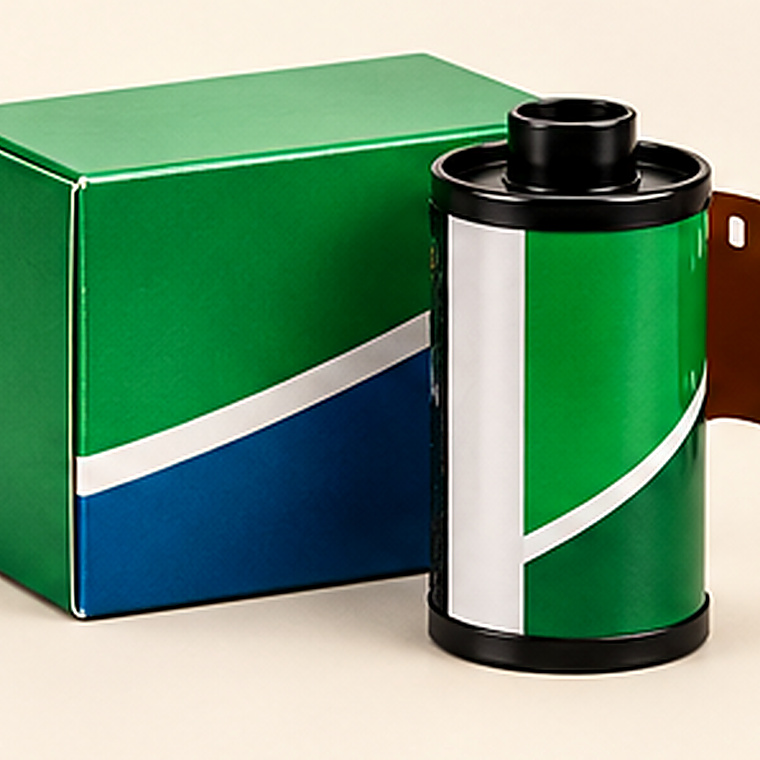
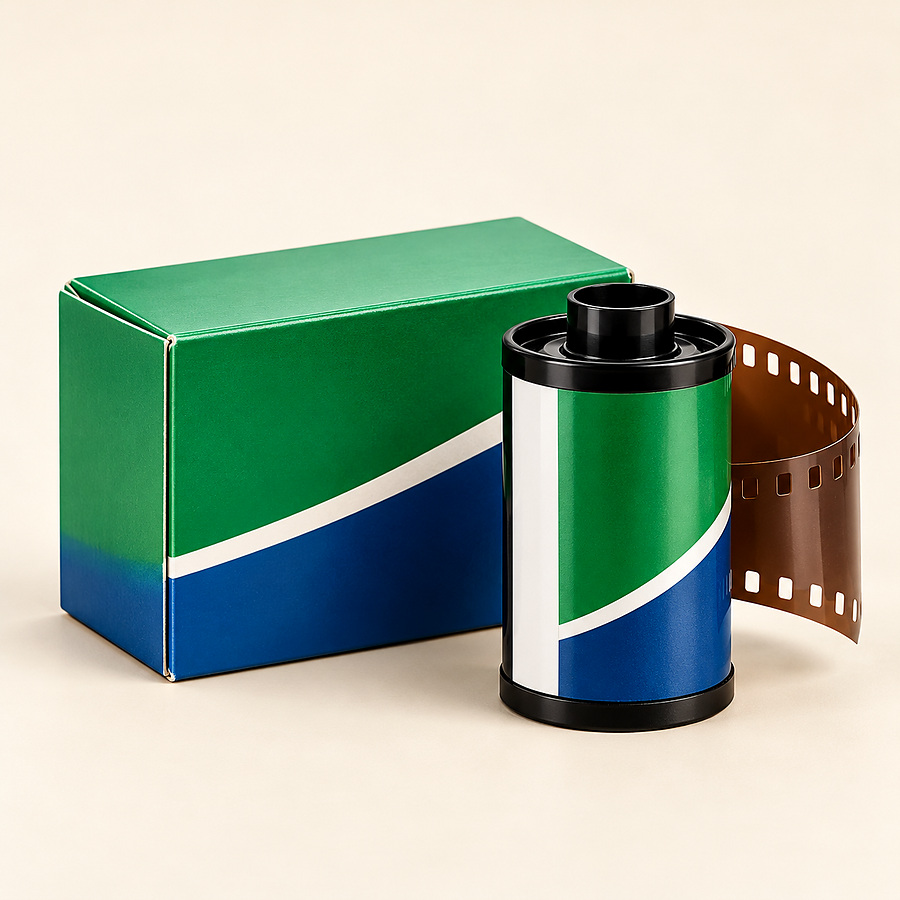
Add files via upload

diff --git a/css/styles.css b/css/styles.css
@@ -1,6 +1,6 @@
 @import url('https://fonts.googleapis.com/css2?family=DM+Sans:wght@400;500;600;700&family=Playfair+Display:ital,wght@0,500;0,600;0,700;1,500;1,600&display=swap');
 :root{--ink:#171715;--paper:#f5f0e7;--cream:#e9dfcf;--muted:#a49a8b;--orange:#e95b2b;--line:rgba(245,240,231,.16);--serif:'Playfair Display',Georgia,serif;--sans:'DM Sans',Arial,sans-serif;--max:1280px}
-*{box-sizing:border-box}html{scroll-behavior:smooth;scroll-padding-top:90px}body{margin:0;background:var(--paper);color:var(--ink);font-family:var(--sans);font-size:14px;line-height:1.55}a{color:inherit;text-decoration:none}button,input,select{font:inherit}button{cursor:pointer}img{display:block;max-width:100%}.sr-only{position:absolute;width:1px;height:1px;padding:0;margin:-1px;overflow:hidden;clip:rect(0,0,0,0);white-space:nowrap;border:0}.announcement{min-height:35px;padding:8px max(24px,calc((100% - var(--max))/2));background:var(--ink);color:#e9dfcf;display:flex;justify-content:space-between;gap:20px;font-size:10px;letter-spacing:.12em;text-transform:uppercase}.announcement a{color:#f3a16e}.site-header{height:96px;padding:0 max(24px,calc((100% - var(--max))/2));display:flex;align-items:center;justify-content:space-between;gap:24px;background:var(--paper);border-bottom:1px solid #ddd3c4;position:sticky;top:0;z-index:20}.brand{width:290px;flex-shrink:0}.brand img{width:100%;height:auto}.main-nav{display:flex;align-items:center;gap:25px;font-size:12px}.main-nav a{position:relative;padding:8px 0}.main-nav a:after{content:"";position:absolute;bottom:0;left:0;width:0;height:2px;background:var(--orange);transition:width .2s}.main-nav a:hover:after,.main-nav a:focus-visible:after{width:100%}.header-actions{display:flex;gap:10px;align-items:center}.icon-button,.cart-button,.menu-toggle{background:none;border:1px solid #cfc4b4;color:var(--ink);padding:9px 13px}.icon-button{font-size:24px;line-height:1}.cart-button{font-size:11px;text-transform:uppercase;letter-spacing:.1em}.cart-button span{display:inline-grid;place-items:center;background:var(--orange);color:#fff;border-radius:50%;width:21px;height:21px;margin-left:7px}.menu-toggle{display:none}.hero{background:var(--ink);color:var(--paper);padding:0 max(24px,calc((100% - var(--max))/2));position:relative;display:grid;grid-template-columns:.88fr 1.12fr;min-height:560px;overflow:hidden}.hero-copy{padding:80px 30px 45px 0;position:relative;z-index:2}.eyebrow{font-size:10px;font-weight:700;letter-spacing:.19em;text-transform:uppercase;color:var(--orange);margin:0 0 18px}.hero h1,.section-heading h2,.manifesto h2,.newsletter h2,.support-section h2{font-family:var(--serif);font-weight:500;letter-spacing:-.04em;line-height:1.04;margin:0}.hero h1{font-size:clamp(48px,5vw,76px)}em{font-weight:500;color:var(--orange)}.hero-text{max-width:400px;color:#c6bcae;font-size:16px;margin:24px 0 28px}.hero-buttons{display:flex;align-items:center;gap:25px;flex-wrap:wrap}.button{display:inline-flex;justify-content:center;align-items:center;gap:18px;padding:14px 18px;border:0;text-transform:uppercase;letter-spacing:.1em;font-size:10px;font-weight:700;transition:transform .2s,background .2s}.button:hover{transform:translateY(-2px)}.button-primary{background:var(--orange);color:white}.button-primary:hover{background:#c94b23}.button-dark{background:var(--ink);color:var(--paper)}.text-link{font-size:12px;border-bottom:1px solid currentColor;padding-bottom:4px;display:inline-flex;gap:12px;align-items:center}.hero-note{display:flex;align-items:center;gap:12px;color:#c6bcae;font-size:12px;margin-top:47px}.hero-note small{color:#918777}.note-mark{color:var(--orange);font-size:28px}.hero-visual{position:relative;min-height:520px;align-self:stretch;overflow:hidden}.hero-visual:before{content:"";position:absolute;inset:0;background:linear-gradient(90deg,var(--ink),transparent 23%),linear-gradient(0deg,rgba(23,23,21,.25),transparent 40%);z-index:1;pointer-events:none}.hero-visual img{height:100%;width:100%;object-fit:cover;object-position:center}.image-stamp{position:absolute;z-index:2;right:26px;top:32px;border:1px solid rgba(245,240,231,.55);color:#f5f0e7;border-radius:50%;width:104px;height:104px;display:grid;place-content:center;text-align:center;font-family:var(--serif);font-size:13px;line-height:1.25;transform:rotate(9deg)}.hero-bottom{grid-column:1/-1;display:flex;justify-content:space-between;border-top:1px solid var(--line);padding:14px 0;font-size:9px;letter-spacing:.17em;color:#a99f91}.section-wrap{max-width:var(--max);margin:auto;padding:90px 24px}.section-heading{display:flex;justify-content:space-between;align-items:end;gap:30px;margin-bottom:35px}.section-heading h2,.manifesto h2,.newsletter h2,.support-section h2{font-size:clamp(34px,4vw,52px)}.section-heading h2 em,.manifesto h2 em,.newsletter h2 em,.support-section h2 em{color:var(--orange)}.section-intro{max-width:350px;color:#71695f;margin:0 0 4px}.collection-grid{display:grid;grid-template-columns:repeat(4,1fr);gap:14px}.collection-card{height:260px;position:relative;overflow:hidden;padding:19px;display:flex;flex-direction:column;justify-content:space-between;color:#fff;background:#333;background-size:cover;background-position:center;isolation:isolate}.collection-card:before{content:"";position:absolute;inset:0;background:linear-gradient(180deg,rgba(20,18,15,.12) 0%,rgba(20,18,15,.30) 42%,rgba(20,18,15,.82) 100%);z-index:-1;transition:background .2s}.collection-card:hover:before{background:linear-gradient(180deg,rgba(0,0,0,.12),rgba(0,0,0,.76))}.collection-film{background-image:url('../assets/images/products/product-01.jpg')}.collection-camera{background-image:url('../assets/images/products/product-03.jpg')}.collection-carry{background-image:url('../assets/images/products/product-06.jpg')}.collection-darkroom{background-image:url('../assets/images/products/product-08.jpg')}.collection-number{font-size:9px;letter-spacing:.14em}.collection-title{font-family:var(--serif);font-size:29px;line-height:1.05}.collection-arrow{position:absolute;right:17px;bottom:17px;font-size:22px;color:#f3a16e}.shop-section{background:#eae1d3;border-top:1px solid #d9cebd;border-bottom:1px solid #d9cebd}.shop-section .section-wrap{padding-top:83px;padding-bottom:83px}.product-count{font-size:11px;color:#746b5f}.shop-tools{display:flex;align-items:center;gap:18px;flex-wrap:wrap;margin-bottom:25px}.search-box{display:flex;align-items:center;gap:10px;border-bottom:1px solid #b9ad9c;padding:8px 0;min-width:240px;flex:1}.search-box span{font-size:22px}.search-box input{background:transparent;border:0;outline:0;width:100%;min-width:0;color:var(--ink);font-size:12px}.filter-list{display:flex;gap:4px;flex-wrap:wrap}.filter-button{border:1px solid transparent;background:transparent;padding:9px 11px;font-size:11px;color:#665d53}.filter-button.active,.filter-button:hover{border-color:#b7aa99;color:var(--ink);background:rgba(255,255,255,.36)}.sort-label{font-size:10px;letter-spacing:.1em;text-transform:uppercase;display:flex;align-items:center;gap:8px}.sort-label select{background:transparent;border:0;border-bottom:1px solid #b9ad9c;padding:8px;color:var(--ink);font-size:11px}.product-grid{display:grid;grid-template-columns:repeat(4,minmax(0,1fr));gap:24px 16px}.product-card{min-width:0}.product-image-wrap{position:relative;background:#f7f3eb;aspect-ratio:1/1;overflow:hidden}.product-image-wrap img{width:100%;height:100%;object-fit:contain;background:#f5efe4;transition:transform .4s}.product-card:hover .product-image-wrap img{transform:scale(1.045)}.product-tag{position:absolute;left:10px;top:10px;background:var(--paper);padding:5px 8px;font-size:9px;letter-spacing:.07em;text-transform:uppercase}.quick-add{position:absolute;right:10px;bottom:10px;border:0;background:var(--ink);color:white;padding:10px 13px;font-size:10px;text-transform:uppercase;letter-spacing:.08em}.quick-add:hover{background:var(--orange)}.product-meta{padding:14px 1px 0}.product-category{font-size:9px;text-transform:uppercase;letter-spacing:.15em;color:#887c6c}.product-name{font-family:var(--serif);font-size:19px;font-weight:500;margin:5px 0 7px;line-height:1.2}.product-description{font-size:11px;color:#756c60;min-height:36px;margin:0 0 12px}.product-price-row{display:flex;justify-content:space-between;align-items:center;gap:8px}.product-price{font-weight:700;font-size:13px}.product-details{border:0;background:transparent;text-decoration:underline;text-underline-offset:3px;font-size:10px;color:#655b50;padding:4px 0}.shop-footnote{margin-top:35px;border-top:1px solid #cfc2b0;padding-top:17px;color:#6f665a;font-size:11px}.shop-footnote span{color:var(--orange);font-size:17px;margin-right:7px}.empty-state{padding:30px;text-align:center}.manifesto{display:grid;grid-template-columns:1fr 1fr;min-height:440px;background:#d7c7b2}.manifesto-art{position:relative;min-height:400px;background:radial-gradient(ellipse at 50% 40%,#db8a43 0,#a64e2b 25%,#3b2820 55%,#181715 80%);overflow:hidden}.sun-disc{position:absolute;width:250px;height:250px;top:48px;left:50%;transform:translateX(-50%);border-radius:50%;background:repeating-linear-gradient(to bottom,#f8c36b 0 19px,#d85e32 20px 30px,#27221d 31px 35px);box-shadow:0 0 70px rgba(237,125,57,.24)}.manifesto-art:after{content:"";position:absolute;left:0;right:0;bottom:0;height:42%;background:linear-gradient(180deg,transparent,#171715 85%)}.manifesto-caption{position:absolute;z-index:2;bottom:26px;left:28px;color:#f5f0e7;font-size:10px;letter-spacing:.2em;line-height:1.8}.manifesto-copy{padding:75px clamp(28px,6vw,90px);align-self:center}.manifesto-copy>p:not(.eyebrow){color:#5e554a;max-width:460px}.manifesto-copy .text-link{margin-top:12px}.journal-grid{display:grid;grid-template-columns:repeat(3,1fr);border-top:1px solid #d7ccbc;border-bottom:1px solid #d7ccbc}.journal-grid article{padding:24px 24px 28px 0}.journal-grid article+article{border-left:1px solid #d7ccbc;padding-left:24px}.journal-index{font-size:9px;letter-spacing:.15em;color:var(--orange)}.journal-grid h3{font-family:var(--serif);font-size:23px;font-weight:500;line-height:1.2;margin:20px 0 10px}.journal-grid p{color:#766d62;font-size:12px;min-height:54px}.newsletter{background:var(--ink);color:var(--paper);padding:56px max(24px,calc((100% - var(--max))/2));display:flex;justify-content:space-between;align-items:center;gap:35px}.newsletter h2{font-size:38px}.newsletter p:not(.eyebrow){color:#b9aea0;margin-bottom:0}.newsletter-form{display:grid;grid-template-columns:minmax(180px,300px) auto;gap:9px;max-width:470px;width:100%}.newsletter-form input{min-width:0;border:1px solid #5b554d;background:#22221f;color:#fff;padding:13px;font-size:12px}.newsletter-form small{grid-column:1/-1;color:#9f9588;font-size:10px}.support-section{display:grid;grid-template-columns:1.1fr .9fr;gap:80px;align-items:center}.support-copy{max-width:470px;color:#6c6358}.support-card{background:#e9dfcf;border:1px solid #d4c7b5;padding:25px}.support-row{display:flex;align-items:center;gap:14px;padding:14px 0;border-bottom:1px solid #d2c4b2}.support-icon{font-size:23px;color:var(--orange);width:30px}.support-row small{display:block;color:#8c7e6c;font-size:9px;letter-spacing:.13em;margin-bottom:3px}.support-row a{font-size:13px;overflow-wrap:anywhere}.support-note{font-size:10px;color:#827668;margin:15px 0}.site-footer{background:#141414;color:#f5f0e7;padding:45px max(24px,calc((100% - var(--max))/2)) 18px}.footer-top{display:grid;grid-template-columns:280px 1fr auto;align-items:center;gap:35px;padding-bottom:35px}.footer-brand img{width:100%}.footer-top p{color:#a69b8c;font-size:12px}.footer-links{display:flex;gap:20px;font-size:11px}.footer-links a:hover,.footer-bottom a:hover{color:#f3a16e}.footer-bottom{border-top:1px solid #373530;padding-top:16px;display:flex;justify-content:space-between;gap:18px;flex-wrap:wrap;color:#a69b8c;font-size:9px;letter-spacing:.08em}.overlay{position:fixed;inset:0;background:rgba(0,0,0,.48);z-index:40}.cart-drawer{position:fixed;z-index:41;right:0;top:0;bottom:0;width:min(460px,100%);background:var(--paper);padding:28px;display:flex;flex-direction:column;box-shadow:-10px 0 50px #0002}.drawer-header{display:flex;justify-content:space-between;align-items:center;border-bottom:1px solid #d6cbbb;padding-bottom:20px}.drawer-header .eyebrow{margin-bottom:5px}.drawer-header h2{font-family:var(--serif);font-weight:500;font-size:31px;margin:0}.close-button{border:1px solid #d0c4b3;background:transparent;font-size:26px;width:40px;height:40px}.cart-items{overflow:auto;flex:1}.cart-empty{padding:35px 0;color:#71685d}.cart-line{display:grid;grid-template-columns:72px 1fr auto;gap:12px;padding:16px 0;border-bottom:1px solid #d8cdbc;align-items:center}.cart-line img{width:72px;height:72px;object-fit:cover;background:#eee5d8}.cart-line h3{font-family:var(--serif);font-size:15px;margin:0 0 4px}.cart-line p{margin:0;font-size:12px}.quantity-controls{display:flex;align-items:center;gap:8px;margin-top:8px}.quantity-controls button{border:1px solid #c9bdad;background:transparent;width:25px;height:25px}.remove-item{border:0;background:transparent;color:#9a4a2d;font-size:10px;text-decoration:underline;margin-top:5px}.cart-bottom{border-top:1px solid #d6cbbb;padding-top:18px}.cart-total{display:flex;justify-content:space-between;font-size:14px}.cart-bottom>p,.cart-bottom small{font-size:10px;color:#817669}.checkout-button{width:100%;margin-top:8px}.toast{position:fixed;z-index:60;bottom:22px;left:50%;transform:translate(-50%,20px);opacity:0;pointer-events:none;background:var(--ink);color:white;padding:12px 18px;font-size:12px;transition:all .2s;max-width:calc(100% - 32px)}.toast.show{opacity:1;transform:translate(-50%,0)}[hidden]{display:none!important}:focus-visible{outline:2px solid var(--orange);outline-offset:3px}
+*{box-sizing:border-box}html{scroll-behavior:smooth;scroll-padding-top:90px}body{margin:0;background:var(--paper);color:var(--ink);font-family:var(--sans);font-size:14px;line-height:1.55}a{color:inherit;text-decoration:none}button,input,select{font:inherit}button{cursor:pointer}img{display:block;max-width:100%}.sr-only{position:absolute;width:1px;height:1px;padding:0;margin:-1px;overflow:hidden;clip:rect(0,0,0,0);white-space:nowrap;border:0}.announcement{min-height:35px;padding:8px max(24px,calc((100% - var(--max))/2));background:var(--ink);color:#e9dfcf;display:flex;justify-content:space-between;gap:20px;font-size:10px;letter-spacing:.12em;text-transform:uppercase}.announcement a{color:#f3a16e}.site-header{height:96px;padding:0 max(24px,calc((100% - var(--max))/2));display:flex;align-items:center;justify-content:space-between;gap:24px;background:var(--paper);border-bottom:1px solid #ddd3c4;position:sticky;top:0;z-index:20}.brand{width:290px;flex-shrink:0}.brand img{width:100%;height:auto}.main-nav{display:flex;align-items:center;gap:25px;font-size:12px}.main-nav a{position:relative;padding:8px 0}.main-nav a:after{content:"";position:absolute;bottom:0;left:0;width:0;height:2px;background:var(--orange);transition:width .2s}.main-nav a:hover:after,.main-nav a:focus-visible:after{width:100%}.header-actions{display:flex;gap:10px;align-items:center}.icon-button,.cart-button,.menu-toggle{background:none;border:1px solid #cfc4b4;color:var(--ink);padding:9px 13px}.icon-button{font-size:24px;line-height:1}.cart-button{font-size:11px;text-transform:uppercase;letter-spacing:.1em}.cart-button span{display:inline-grid;place-items:center;background:var(--orange);color:#fff;border-radius:50%;width:21px;height:21px;margin-left:7px}.menu-toggle{display:none}.hero{background:var(--ink);color:var(--paper);padding:0 max(24px,calc((100% - var(--max))/2));position:relative;display:grid;grid-template-columns:.88fr 1.12fr;min-height:560px;overflow:hidden}.hero-copy{padding:80px 30px 45px 0;position:relative;z-index:2}.eyebrow{font-size:10px;font-weight:700;letter-spacing:.19em;text-transform:uppercase;color:var(--orange);margin:0 0 18px}.hero h1,.section-heading h2,.manifesto h2,.newsletter h2,.support-section h2{font-family:var(--serif);font-weight:500;letter-spacing:-.04em;line-height:1.04;margin:0}.hero h1{font-size:clamp(48px,5vw,76px)}em{font-weight:500;color:var(--orange)}.hero-text{max-width:400px;color:#c6bcae;font-size:16px;margin:24px 0 28px}.hero-buttons{display:flex;align-items:center;gap:25px;flex-wrap:wrap}.button{display:inline-flex;justify-content:center;align-items:center;gap:18px;padding:14px 18px;border:0;text-transform:uppercase;letter-spacing:.1em;font-size:10px;font-weight:700;transition:transform .2s,background .2s}.button:hover{transform:translateY(-2px)}.button-primary{background:var(--orange);color:white}.button-primary:hover{background:#c94b23}.button-dark{background:var(--ink);color:var(--paper)}.text-link{font-size:12px;border-bottom:1px solid currentColor;padding-bottom:4px;display:inline-flex;gap:12px;align-items:center}.hero-note{display:flex;align-items:center;gap:12px;color:#c6bcae;font-size:12px;margin-top:47px}.hero-note small{color:#918777}.note-mark{color:var(--orange);font-size:28px}.hero-visual{position:relative;min-height:520px;align-self:stretch;overflow:hidden}.hero-visual:before{content:"";position:absolute;inset:0;background:linear-gradient(90deg,var(--ink),transparent 23%),linear-gradient(0deg,rgba(23,23,21,.25),transparent 40%);z-index:1;pointer-events:none}.hero-visual img{height:100%;width:100%;object-fit:cover;object-position:center}.image-stamp{position:absolute;z-index:2;right:26px;top:32px;border:1px solid rgba(245,240,231,.55);color:#f5f0e7;border-radius:50%;width:104px;height:104px;display:grid;place-content:center;text-align:center;font-family:var(--serif);font-size:13px;line-height:1.25;transform:rotate(9deg)}.hero-bottom{grid-column:1/-1;display:flex;justify-content:space-between;border-top:1px solid var(--line);padding:14px 0;font-size:9px;letter-spacing:.17em;color:#a99f91}.section-wrap{max-width:var(--max);margin:auto;padding:90px 24px}.section-heading{display:flex;justify-content:space-between;align-items:end;gap:30px;margin-bottom:35px}.section-heading h2,.manifesto h2,.newsletter h2,.support-section h2{font-size:clamp(34px,4vw,52px)}.section-heading h2 em,.manifesto h2 em,.newsletter h2 em,.support-section h2 em{color:var(--orange)}.section-intro{max-width:350px;color:#71695f;margin:0 0 4px}.collection-grid{display:grid;grid-template-columns:repeat(4,1fr);gap:14px}.collection-card{height:260px;position:relative;overflow:hidden;padding:19px;display:flex;flex-direction:column;justify-content:space-between;color:#fff;background:#333;background-size:cover;background-position:center;isolation:isolate}.collection-card:before{content:"";position:absolute;inset:0;background:linear-gradient(180deg,rgba(20,18,15,.22) 0%,rgba(20,18,15,.36) 42%,rgba(20,18,15,.86) 100%);z-index:-1;transition:background .2s}.collection-card:hover:before{background:linear-gradient(180deg,rgba(0,0,0,.12),rgba(0,0,0,.76))}.collection-film{background-image:url('../assets/images/products/product-01.jpg')}.collection-camera{background-image:url('../assets/images/products/product-03.jpg')}.collection-carry{background-image:url('../assets/images/products/product-06.jpg')}.collection-darkroom{background-image:url('../assets/images/products/product-08.jpg')}.collection-number{font-size:9px;letter-spacing:.14em}.collection-title{font-family:var(--serif);font-size:29px;line-height:1.05}.collection-arrow{position:absolute;right:17px;bottom:17px;font-size:22px;color:#f3a16e}.shop-section{background:#eae1d3;border-top:1px solid #d9cebd;border-bottom:1px solid #d9cebd}.shop-section .section-wrap{padding-top:83px;padding-bottom:83px}.product-count{font-size:11px;color:#746b5f}.shop-tools{display:flex;align-items:center;gap:18px;flex-wrap:wrap;margin-bottom:25px}.search-box{display:flex;align-items:center;gap:10px;border-bottom:1px solid #b9ad9c;padding:8px 0;min-width:240px;flex:1}.search-box span{font-size:22px}.search-box input{background:transparent;border:0;outline:0;width:100%;min-width:0;color:var(--ink);font-size:12px}.filter-list{display:flex;gap:4px;flex-wrap:wrap}.filter-button{border:1px solid transparent;background:transparent;padding:9px 11px;font-size:11px;color:#665d53}.filter-button.active,.filter-button:hover{border-color:#b7aa99;color:var(--ink);background:rgba(255,255,255,.36)}.sort-label{font-size:10px;letter-spacing:.1em;text-transform:uppercase;display:flex;align-items:center;gap:8px}.sort-label select{background:transparent;border:0;border-bottom:1px solid #b9ad9c;padding:8px;color:var(--ink);font-size:11px}.product-grid{display:grid;grid-template-columns:repeat(4,minmax(0,1fr));gap:24px 16px}.product-card{min-width:0}.product-image-wrap{position:relative;background:#f7f3eb;aspect-ratio:1/1;overflow:hidden}.product-image-wrap img{width:100%;height:100%;object-fit:contain;background:#f5efe4;transition:transform .4s}.product-card:hover .product-image-wrap img{transform:scale(1.045)}.product-tag{position:absolute;left:10px;top:10px;background:var(--paper);padding:5px 8px;font-size:9px;letter-spacing:.07em;text-transform:uppercase}.quick-add{position:absolute;right:10px;bottom:10px;border:0;background:var(--ink);color:white;padding:10px 13px;font-size:10px;text-transform:uppercase;letter-spacing:.08em}.quick-add:hover{background:var(--orange)}.product-meta{padding:14px 1px 0}.product-category{font-size:9px;text-transform:uppercase;letter-spacing:.15em;color:#887c6c}.product-name{font-family:var(--serif);font-size:19px;font-weight:500;margin:5px 0 7px;line-height:1.2}.product-description{font-size:11px;color:#756c60;min-height:36px;margin:0 0 12px}.product-price-row{display:flex;justify-content:space-between;align-items:center;gap:8px}.product-price{font-weight:700;font-size:13px}.product-details{border:0;background:transparent;text-decoration:underline;text-underline-offset:3px;font-size:10px;color:#655b50;padding:4px 0}.shop-footnote{margin-top:35px;border-top:1px solid #cfc2b0;padding-top:17px;color:#6f665a;font-size:11px}.shop-footnote span{color:var(--orange);font-size:17px;margin-right:7px}.empty-state{padding:30px;text-align:center}.manifesto{display:grid;grid-template-columns:1fr 1fr;min-height:440px;background:#d7c7b2}.manifesto-art{position:relative;min-height:400px;background:radial-gradient(ellipse at 50% 40%,#db8a43 0,#a64e2b 25%,#3b2820 55%,#181715 80%);overflow:hidden}.sun-disc{position:absolute;width:250px;height:250px;top:48px;left:50%;transform:translateX(-50%);border-radius:50%;background:repeating-linear-gradient(to bottom,#f8c36b 0 19px,#d85e32 20px 30px,#27221d 31px 35px);box-shadow:0 0 70px rgba(237,125,57,.24)}.manifesto-art:after{content:"";position:absolute;left:0;right:0;bottom:0;height:42%;background:linear-gradient(180deg,transparent,#171715 85%)}.manifesto-caption{position:absolute;z-index:2;bottom:26px;left:28px;color:#f5f0e7;font-size:10px;letter-spacing:.2em;line-height:1.8}.manifesto-copy{padding:75px clamp(28px,6vw,90px);align-self:center}.manifesto-copy>p:not(.eyebrow){color:#5e554a;max-width:460px}.manifesto-copy .text-link{margin-top:12px}.journal-grid{display:grid;grid-template-columns:repeat(3,1fr);border-top:1px solid #d7ccbc;border-bottom:1px solid #d7ccbc}.journal-grid article{padding:24px 24px 28px 0}.journal-grid article+article{border-left:1px solid #d7ccbc;padding-left:24px}.journal-index{font-size:9px;letter-spacing:.15em;color:var(--orange)}.journal-grid h3{font-family:var(--serif);font-size:23px;font-weight:500;line-height:1.2;margin:20px 0 10px}.journal-grid p{color:#766d62;font-size:12px;min-height:54px}.newsletter{background:var(--ink);color:var(--paper);padding:56px max(24px,calc((100% - var(--max))/2));display:flex;justify-content:space-between;align-items:center;gap:35px}.newsletter h2{font-size:38px}.newsletter p:not(.eyebrow){color:#b9aea0;margin-bottom:0}.newsletter-form{display:grid;grid-template-columns:minmax(180px,300px) auto;gap:9px;max-width:470px;width:100%}.newsletter-form input{min-width:0;border:1px solid #5b554d;background:#22221f;color:#fff;padding:13px;font-size:12px}.newsletter-form small{grid-column:1/-1;color:#9f9588;font-size:10px}.support-section{display:grid;grid-template-columns:1.1fr .9fr;gap:80px;align-items:center}.support-copy{max-width:470px;color:#6c6358}.support-card{background:#e9dfcf;border:1px solid #d4c7b5;padding:25px}.support-row{display:flex;align-items:center;gap:14px;padding:14px 0;border-bottom:1px solid #d2c4b2}.support-icon{font-size:23px;color:var(--orange);width:30px}.support-row small{display:block;color:#8c7e6c;font-size:9px;letter-spacing:.13em;margin-bottom:3px}.support-row a{font-size:13px;overflow-wrap:anywhere}.support-note{font-size:10px;color:#827668;margin:15px 0}.site-footer{background:#141414;color:#f5f0e7;padding:45px max(24px,calc((100% - var(--max))/2)) 18px}.footer-top{display:grid;grid-template-columns:280px 1fr auto;align-items:center;gap:35px;padding-bottom:35px}.footer-brand img{width:100%}.footer-top p{color:#a69b8c;font-size:12px}.footer-links{display:flex;gap:20px;font-size:11px}.footer-links a:hover,.footer-bottom a:hover{color:#f3a16e}.footer-bottom{border-top:1px solid #373530;padding-top:16px;display:flex;justify-content:space-between;gap:18px;flex-wrap:wrap;color:#a69b8c;font-size:9px;letter-spacing:.08em}.overlay{position:fixed;inset:0;background:rgba(0,0,0,.48);z-index:40}.cart-drawer{position:fixed;z-index:41;right:0;top:0;bottom:0;width:min(460px,100%);background:var(--paper);padding:28px;display:flex;flex-direction:column;box-shadow:-10px 0 50px #0002}.drawer-header{display:flex;justify-content:space-between;align-items:center;border-bottom:1px solid #d6cbbb;padding-bottom:20px}.drawer-header .eyebrow{margin-bottom:5px}.drawer-header h2{font-family:var(--serif);font-weight:500;font-size:31px;margin:0}.close-button{border:1px solid #d0c4b3;background:transparent;font-size:26px;width:40px;height:40px}.cart-items{overflow:auto;flex:1}.cart-empty{padding:35px 0;color:#71685d}.cart-line{display:grid;grid-template-columns:72px 1fr auto;gap:12px;padding:16px 0;border-bottom:1px solid #d8cdbc;align-items:center}.cart-line img{width:72px;height:72px;object-fit:cover;background:#eee5d8}.cart-line h3{font-family:var(--serif);font-size:15px;margin:0 0 4px}.cart-line p{margin:0;font-size:12px}.quantity-controls{display:flex;align-items:center;gap:8px;margin-top:8px}.quantity-controls button{border:1px solid #c9bdad;background:transparent;width:25px;height:25px}.remove-item{border:0;background:transparent;color:#9a4a2d;font-size:10px;text-decoration:underline;margin-top:5px}.cart-bottom{border-top:1px solid #d6cbbb;padding-top:18px}.cart-total{display:flex;justify-content:space-between;font-size:14px}.cart-bottom>p,.cart-bottom small{font-size:10px;color:#817669}.checkout-button{width:100%;margin-top:8px}.toast{position:fixed;z-index:60;bottom:22px;left:50%;transform:translate(-50%,20px);opacity:0;pointer-events:none;background:var(--ink);color:white;padding:12px 18px;font-size:12px;transition:all .2s;max-width:calc(100% - 32px)}.toast.show{opacity:1;transform:translate(-50%,0)}[hidden]{display:none!important}:focus-visible{outline:2px solid var(--orange);outline-offset:3px}
 @media(max-width:1050px){.site-header{gap:14px}.brand{width:235px}.main-nav{gap:13px}.main-nav a{font-size:11px}.hero{grid-template-columns:.95fr 1.05fr}.hero-copy{padding-top:65px}.product-grid{grid-template-columns:repeat(3,minmax(0,1fr))}.collection-card{height:225px}.footer-top{grid-template-columns:230px 1fr}.footer-links{grid-column:1/-1}}
 @media(max-width:760px){.announcement{justify-content:center;text-align:center}.announcement span:nth-child(2),.announcement a{display:none}.site-header{height:76px;padding:0 18px}.brand{width:220px}.menu-toggle{display:block;margin-left:auto}.main-nav{display:none;position:absolute;top:75px;left:0;right:0;background:var(--paper);padding:16px 22px 22px;border-bottom:1px solid #d5cabb;flex-direction:column;align-items:flex-start;gap:8px}.main-nav.open{display:flex}.header-actions{gap:5px}.icon-button{display:none}.hero{display:flex;flex-direction:column;padding:0 18px}.hero-copy{padding:54px 0 30px}.hero h1{font-size:clamp(48px,13vw,68px)}.hero-visual{min-height:300px;margin:0 -18px}.hero-visual:before{background:linear-gradient(0deg,var(--ink),transparent 40%)}.image-stamp{width:80px;height:80px;font-size:10px;right:18px;top:18px}.hero-bottom{gap:12px;font-size:8px}.hero-bottom span:nth-child(2){display:none}.section-wrap{padding:60px 18px}.section-heading{align-items:flex-start;flex-direction:column;gap:15px;margin-bottom:25px}.collection-grid{grid-template-columns:repeat(2,1fr);gap:10px}.collection-card{height:220px;padding:14px}.collection-title{font-size:25px}.shop-section .section-wrap{padding-top:60px;padding-bottom:60px}.shop-tools{gap:10px}.search-box{flex-basis:100%}.filter-list{order:2}.sort-label{margin-left:auto}.product-grid{grid-template-columns:repeat(2,minmax(0,1fr));gap:25px 12px}.product-name{font-size:17px}.product-description{font-size:10px}.quick-add{font-size:9px;padding:9px}.manifesto{grid-template-columns:1fr}.manifesto-art{min-height:280px}.sun-disc{width:190px;height:190px}.manifesto-copy{padding:55px 22px}.journal-grid{grid-template-columns:1fr}.journal-grid article,.journal-grid article+article{padding:22px 0;border-left:0}.journal-grid article+article{border-top:1px solid #d7ccbc}.journal-grid p{min-height:0}.newsletter{padding:45px 18px;display:block}.newsletter h2{font-size:34px}.newsletter-form{margin-top:22px;grid-template-columns:1fr}.newsletter-form small{grid-column:1}.support-section{grid-template-columns:1fr;gap:25px}.site-footer{padding:35px 18px 18px}.footer-top{grid-template-columns:1fr;gap:18px}.footer-brand{width:250px}.footer-links{flex-wrap:wrap;gap:15px}.footer-bottom{flex-direction:column;gap:8px}.cart-drawer{padding:20px}.product-count{font-size:10px}}
 @media(max-width:390px){.brand{width:175px}.cart-button{padding:7px 8px}.collection-card{height:185px}.collection-title{font-size:22px}.hero-buttons{gap:16px}.button{padding:13px 12px}.hero-bottom span:first-child{font-size:7px}}

diff --git a/js/main.js b/js/main.js
@@ -4,14 +4,14 @@
   const $$ = (selector, root = document) => [...root.querySelectorAll(selector)];
   const money = value => new Intl.NumberFormat('en-US', {style:'currency', currency:'USD'}).format(value);
   const products = [
-    {id:'film-kodak-gold',name:'Gold 200 · 35mm Film',category:'film',price:12.99,tag:'Everyday color',description:'A warm, versatile color negative film for sunlit streets, portraits, and everyday moments.',image:'product-01.jpg'},
+    {id:'film-color-200',name:'Color 200 · 35mm Film',category:'film',price:12.99,tag:'Everyday color',description:'A versatile color-negative film for daylight walks, portraits, and everyday moments.',image:'product-01.jpg'},
     {id:'film-color-400',name:'Color 400 · 35mm Film',category:'film',price:14.99,tag:'All-round favorite',description:'A flexible 400-speed color film for changing light and spontaneous frames.',image:'product-02.jpg'},
-    {id:'camera-classic-slr',name:'Classic SLR Camera',category:'cameras',price:329,tag:'Collector pick',description:'A classic manual-focus 35mm SLR concept for a deliberate shooting experience.',image:'product-03.jpg'},
-    {id:'camera-fm-style',name:'Mechanical 35mm SLR',category:'cameras',price:449,tag:'Manual control',description:'A timeless mechanical-camera-inspired body with tactile controls.',image:'product-04.jpg'},
-    {id:'lens-prime-50',name:'50mm Prime Lens',category:'lenses',price:189,tag:'Everyday lens',description:'A versatile normal focal-length lens concept for portraits and daily photography.',image:'product-05.jpg'},
-    {id:'bag-canvas',name:'Canvas Camera Bag',category:'bags',price:89,tag:'Carry in style',description:'A heritage-inspired shoulder bag concept for a camera and small essentials.',image:'product-06.jpg'},
-    {id:'tripod-travel',name:'Compact Travel Tripod',category:'accessories',price:119,tag:'Steady frames',description:'A compact tripod concept for long exposures and careful composition.',image:'product-07.jpg'},
-    {id:'darkroom-tank',name:'Film Developing Tank',category:'darkroom',price:39,tag:'Darkroom essential',description:'A developing-tank concept for photographers exploring home film processing.',image:'product-08.jpg'}
+    {id:'camera-classic-slr',name:'Classic 35mm SLR',category:'cameras',price:149.00,tag:'Vintage body',description:'A vintage manual-focus SLR concept. Check shutter, meter, seals, and condition before buying.',image:'product-03.jpg'},
+    {id:'camera-mechanical-slr',name:'Mechanical 35mm SLR',category:'cameras',price:189.00,tag:'Manual control',description:'A classic manual camera concept with tactile controls. Final price depends on tested condition.',image:'product-04.jpg'},
+    {id:'lens-prime-50',name:'Manual 50mm Prime Lens',category:'lenses',price:79.00,tag:'Everyday lens',description:'A versatile manual prime lens concept. Confirm mount compatibility before purchase.',image:'product-05.jpg'},
+    {id:'bag-canvas',name:'Canvas Camera Messenger',category:'bags',price:64.00,tag:'Carry in style',description:'A heritage-inspired canvas bag concept with leather-look trim and space for everyday gear.',image:'product-06.jpg'},
+    {id:'tripod-travel',name:'Compact Travel Tripod',category:'accessories',price:39.00,tag:'Steady frames',description:'A compact tripod concept for steady framing and long exposures with lightweight gear.',image:'product-07.jpg'},
+    {id:'darkroom-tank',name:'35mm Film Developing Tank',category:'darkroom',price:34.00,tag:'Darkroom essential',description:'A film developing tank concept with reel. Check reel format and capacity before purchase.',image:'product-08.jpg'}
   ];
   let activeFilter = 'all';
   let cart = {};

diff --git a/README.md b/README.md
@@ -1,13 +1,13 @@
-# GRAIN & LIGHT — V3
+# GRAIN & LIGHT — V4
 ### Analog Photography Supply · Film Essentials · Thoughtful Accessories
 
 **GRAIN & LIGHT** is a premium storefront concept for people who love the tactile ritual of analog photography. Inspired by film grain, natural light, classic camera design, and slow creative practice, this responsive static website presents a curated selection of film, cameras, lenses, bags, and darkroom essentials.
 
 > Make room for the moment.
 
-## V3 — Product Image Framing Refinement
+## V4 — Individual Product Photography & Pricing
 
-This version further refines the product imagery after visual review. Each product photo is cropped around its own subject to reduce empty margins, sharpened gently, and saved as an individual square image. Product cards use a neutral image field without blend-mode washout, and collection cards use a stronger, more balanced overlay so both the product and typography remain readable. The hero camera photograph has also been reframed to emphasize the equipment.
+This version replaces repeated crops from a single composite with eight individually generated product photographs: two distinct film products, two different vintage SLR cameras, a prime lens, a canvas camera bag, a compact tripod, and a film developing tank. Every product card maps to its own dedicated image file. Demo prices were adjusted to more plausible sample retail ranges; they are illustrative estimates, not live quotes, verified stock, or offers for specific tested items.
 
 ## Highlights
 
